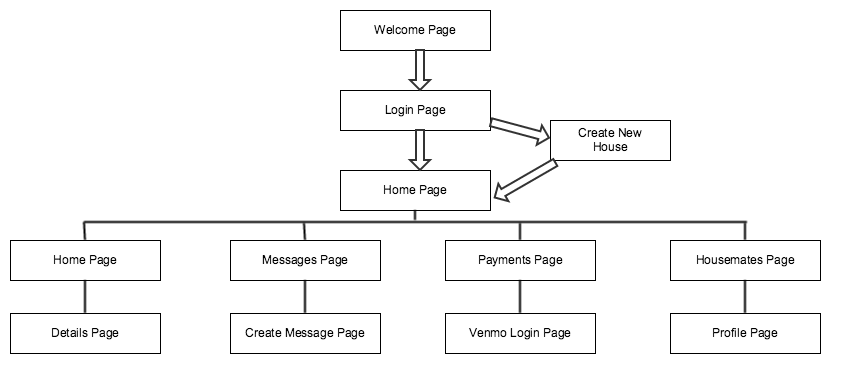
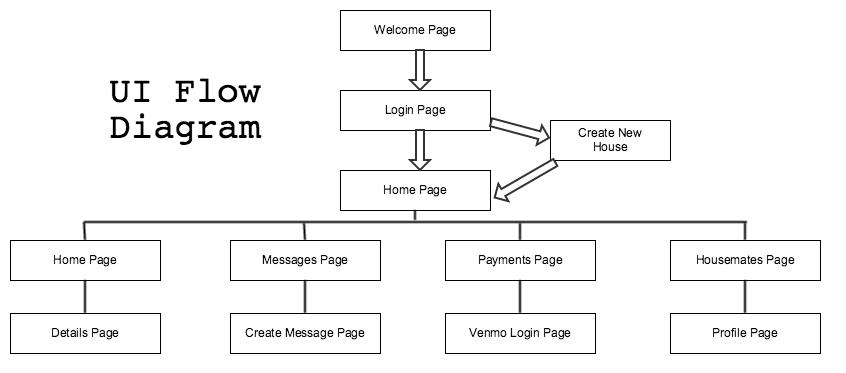
updated title for UI flow diagram

Changed region(s): [[0.1229, 0.2064, 0.3073, 0.3834]]

diff --git a/portfolio.html b/portfolio.html
@@ -70,7 +70,7 @@
         </div>
         <div class="col-md-5">
           <!-- <img class="title-image-half" src="img/ourHouse.png" > -->
-          <video width="320" height="560" autoplay>
+          <video width="320" height="560" autoplay id="ourHouse_video">
             <source src="img/OurHouse.mp4" type="video/mp4">
           </video>
         </div>
@@ -127,22 +127,12 @@
 
     </section>
 
-
-
     <!-- ==============================================
     Use cases
     =============================================== -->
     <section id="skills" class="add-padding bg-color-white">
-        <img class="title-image center-block" src="asset/images/ourHouse/ui_diagram1.png" >
+        <img class="title-image center-block" src="asset/images/ourHouse/ui_diagram.png" >
     </section>
-
-    <!-- ==============================================
-    Wireframe
-    =============================================== -->
-    <section id="skills" class=" bg-color-light-gray">
-        <img class="title-image center-block" src="asset/images/nite/nite_wireframe.png" >
-    </section>
-
 
 
     <!-- ==============================================

diff --git a/asset/css/styles-project.css b/asset/css/styles-project.css
@@ -1316,3 +1316,9 @@ h1,h2,h3,h4,h5,h6,.h1,.h2,.h3,.h4,.h5,.h6{
 	-ms-transform: translateY(0px);
 	transform:translateY(0px);
 }
+
+/* Our House*/
+#ourHouse_video {
+    padding-left: 20px;
+    margin-left: 150px;
+}
